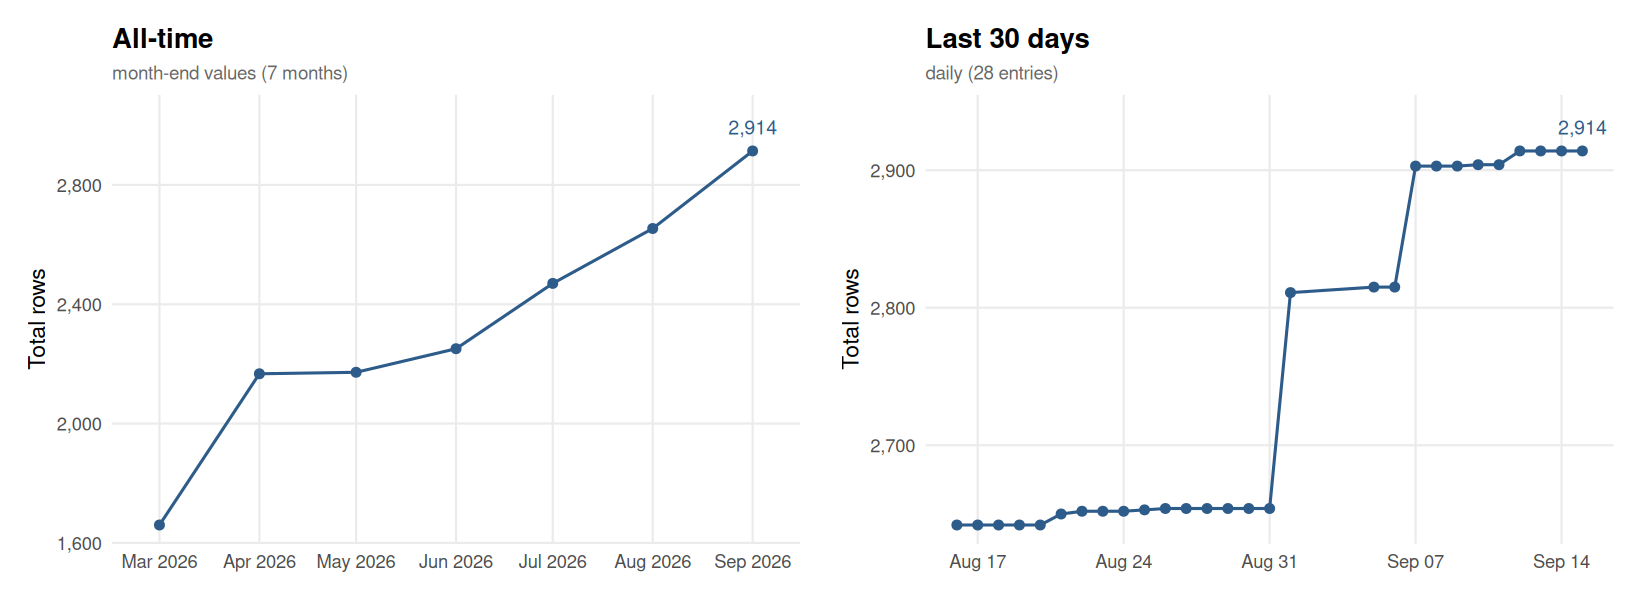
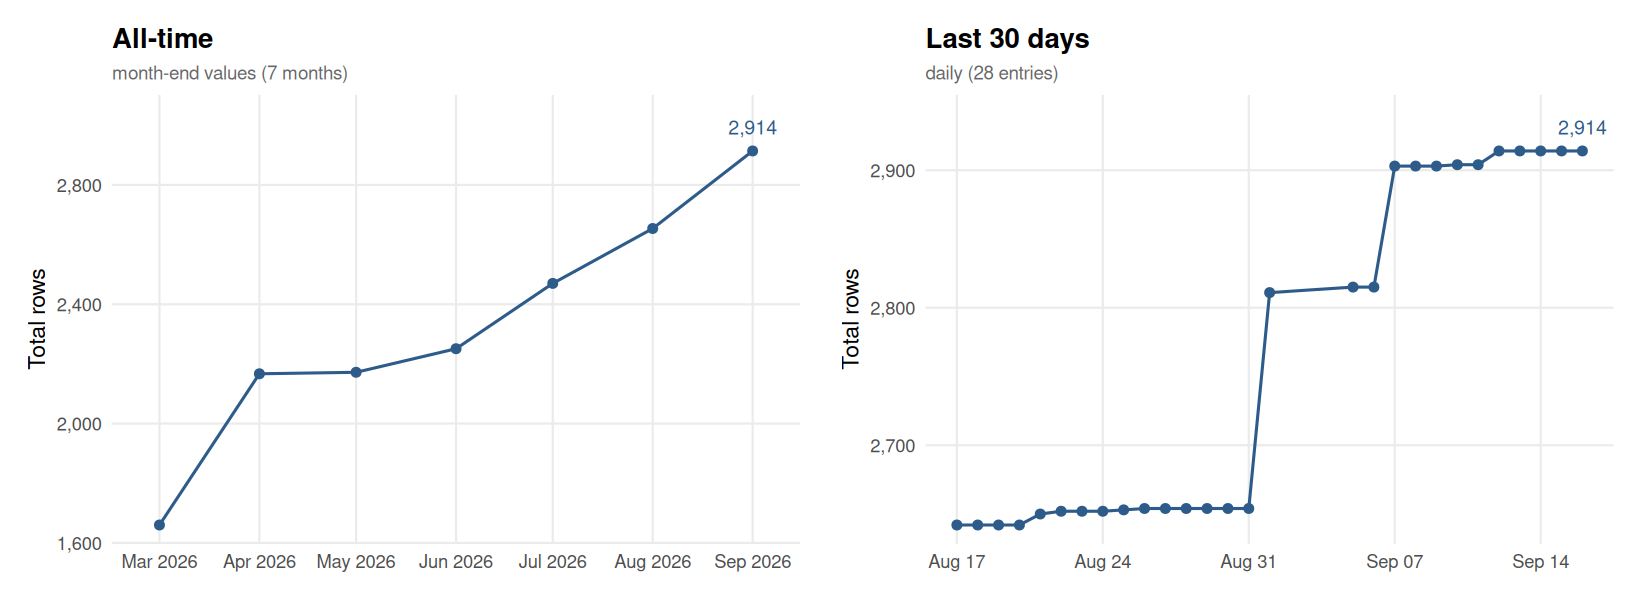
Update flora.csv [automated]

diff --git a/README.md b/README.md
@@ -438,14 +438,15 @@ For API issues:
 This chart is automatically updated after each pipeline run, showing the size of `output/flora.csv` over time.
 
 <!-- FLORA_UPDATE_LOG_START -->
-> **Latest (2026-09-15):** Total = 2,914 | Replications = 2,557 | Reproductions = 357
+> **Latest (2026-09-16):** Total = 2,914 | Replications = 2,557 | Reproductions = 357
 
 ![FLoRA dataset size over time](output/flora_history.png)
 
-<details><summary>Full history (173 entries)</summary>
+<details><summary>Full history (174 entries)</summary>
 
 | Date | Total | Replications | Reproductions |
 |------|------:|-------------:|--------------:|
+| 2026-09-16 | 2914 | 2557 | 357 |
 | 2026-09-15 | 2914 | 2557 | 357 |
 | 2026-09-14 | 2914 | 2557 | 357 |
 | 2026-09-13 | 2914 | 2557 | 357 |
